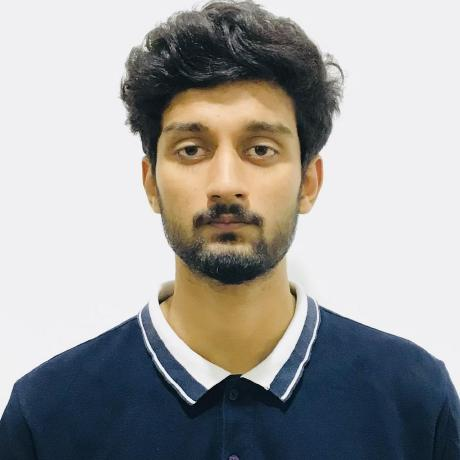
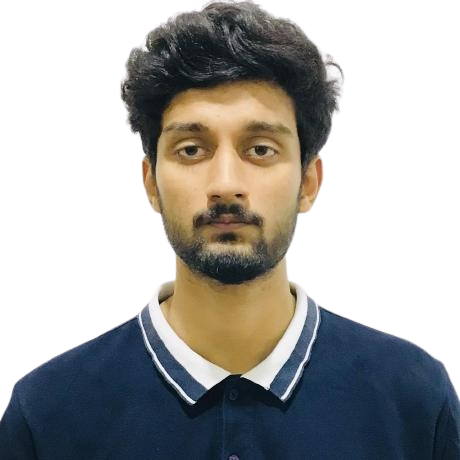
added  photos members and designed the about us section

diff --git a/FluentBridge-Client/src/components/NewOne/constants/index.js b/FluentBridge-Client/src/components/NewOne/constants/index.js
@@ -21,6 +21,7 @@ import {
   Nuwaf,
   Asani,
   Faslan,
+  Ishrath,
   searchMd,
   sliders04,
   telegram,
@@ -88,7 +89,7 @@ export const roadmap = [
       title: "Asani Amarasinghe",
       text: "Allow the chatbot to access external data sources, such as weather APIs or news APIs, to provide more relevant recommendations.",
       date: "CTO",
-      imageUrl: Nuwaf,
+      imageUrl: Asani,
       colorful: true,
     },
     {
@@ -112,7 +113,7 @@ export const roadmap = [
       title: "Muhammadu Ishrath",
       text: "Allow the chatbot to access external data sources, such as weather APIs or news APIs, to provide more relevant recommendations.",
       date: "Designer",
-      imageUrl: Nuwaf,
+      imageUrl: Ishrath,
       colorful: true,
     },
 ];

diff --git a/FluentBridge-Client/src/components/NewOne/assets/index.js b/FluentBridge-Client/src/components/NewOne/assets/index.js
@@ -25,7 +25,8 @@ import heroBackground from "./hero/hero-background.jpg";
 import Huzaifa from "./roadmap/Huzaifa.png";
 import Faslan from "./roadmap/Faslan.png";
 import Nuwaf from "./roadmap/Nuwaf.png";
-import Asani from "./roadmap/Asani.png";
+import Asani from "./roadmap/Asani.jpg";
+import Ishrath from "./roadmap/image-5.png";
 
 
 import notification2 from "./notification/image-2.png";
@@ -77,6 +78,7 @@ export {
   Nuwaf,
   Asani,
   Faslan,
+  Ishrath,
   notification2,
   notification3,
   notification4,
